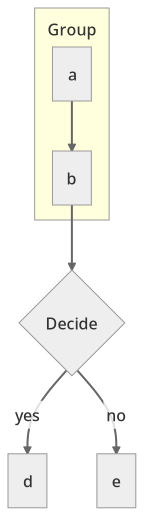
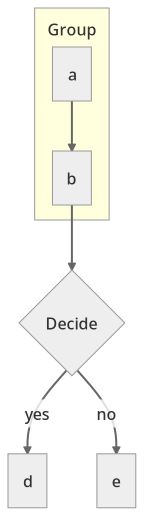
v3 bench results, README, regenerated samples

Changed region(s): [[0.1111, 0.7752, 0.3333, 0.8372], [0.6667, 0.7752, 0.8611, 0.8372]]

diff --git a/README.md b/README.md
@@ -46,3 +46,12 @@ API (`include/cmermaid.h`): `cmm_render_svg(n, src, opts, &buf, &err)`, `cmm_buf
   (Font Awesome glyphs; needs the font installed to render), edge ids `A e1@--> B`, `e1@{ animate: true }`.
 - Golden tests in `tests/golden` (`UPDATE_GOLDEN=1 bash tests/run_tests.sh` to refresh).
 - Benchmarks: `bench/results_v2.txt`.
+
+## v3: build options, batch API, routing
+
+- Build: `make` (portable `-O2`), opt-in `make MARCH=native`, `make LTO=1`, `make pgo [LTO=1 MARCH=native]` (output in `build-pgo/`).
+- Shared library: `build/libcmermaid.so.0.3.0` (soname `libcmermaid.so.0`, only `cmm_*` exported) plus `build/cmermaid.pc`; `make install PREFIX=/usr DESTDIR=...`.
+- Batch rendering: `cmm_context_new()` / `cmm_context_render_svg()` / `cmm_context_free()` reuse the arena and output buffer between calls.
+- Obstacle routing is on by default: edges that cross a non-endpoint node get a local visibility-graph (A*) detour. Use `--no-avoid` / `CMM_F_NO_AVOID` for the fastest layout. Edge labels sit on the rendered curve.
+- SVG: stroke widths and text anchoring are now CSS classes, and collinear points are dropped (about 20% smaller on medium, about 50% on large vs v1).
+- Numbers: `bench/results_v3.txt`.
